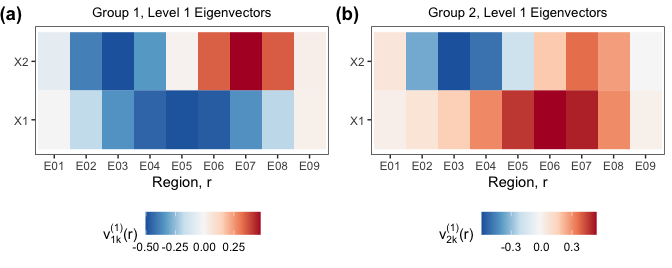
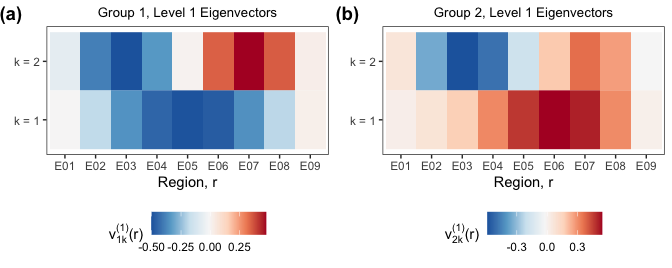
exporting bootstrap tests

diff --git a/README.md b/README.md
@@ -30,8 +30,9 @@ Begin by loading the `mhpca` package.
 library(mhpca) 
 ```
 
-Data can be simulated following the simulation low noise, dense set-up
-from the supplementary materials using the following function:
+Data can be simulated following the low noise, dense simulation set-up
+with 15 subjects per group from the supplementary materials using the
+following function:
 
 ``` r
 sim = MHPCA_simulation(
@@ -54,20 +55,13 @@ The data must be in the following form, with columns labeled
 
 ``` r
 head(sim$data)
-#>     Repetition   Group    Subject reg       func y_nonoise       noise
-#> 1 Repetition 1 Group 1 Subject 01 E01 0.00000000 1.4901930 -0.37896860
-#> 2 Repetition 1 Group 1 Subject 01 E01 0.02040816 1.3658750  0.07670852
-#> 3 Repetition 1 Group 1 Subject 01 E01 0.04081633 1.2479442 -0.50811750
-#> 4 Repetition 1 Group 1 Subject 01 E01 0.06122449 1.1362658  0.27482763
-#> 5 Repetition 1 Group 1 Subject 01 E01 0.08163265 1.0306834 -0.02199535
-#> 6 Repetition 1 Group 1 Subject 01 E01 0.10204082 0.9310203 -0.06845363
-#>           y
-#> 1 1.1112244
-#> 2 1.4425836
-#> 3 0.7398267
-#> 4 1.4110934
-#> 5 1.0086881
-#> 6 0.8625667
+#>     Repetition   Group    Subject reg       func         y
+#> 1 Repetition 1 Group 1 Subject 01 E01 0.00000000 1.1112244
+#> 2 Repetition 1 Group 1 Subject 01 E01 0.02040816 1.4425836
+#> 3 Repetition 1 Group 1 Subject 01 E01 0.04081633 0.7398267
+#> 4 Repetition 1 Group 1 Subject 01 E01 0.06122449 1.4110934
+#> 5 Repetition 1 Group 1 Subject 01 E01 0.08163265 1.0086881
+#> 6 Repetition 1 Group 1 Subject 01 E01 0.10204082 0.8625667
 ```
 
 Using the `MHPCA_decomp` function, you can estimate the model
@@ -84,20 +78,40 @@ MHPCA = MHPCA_decomp(
   quiet      = FALSE # display messages for timing 
 )
 #> 0. Data formatting: 0.016 sec elapsed
-#> 1. Estimation of Fixed Effects: 0.158 sec elapsed
+#> 1. Estimation of Fixed Effects: 0.152 sec elapsed
 #> 2. Estimation of Covariances
-#>     a. Raw Covariances: 0.209 sec elapsed
-#>     b,c. Estimation of Marginal Covariances and Smoothing: 0.684 sec elapsed
+#>     a. Raw Covariances: 0.182 sec elapsed
+#>     b,c. Estimation of Marginal Covariances and Smoothing: 0.759 sec elapsed
 #> 3. Estimation of Marginal Eigencomponents: 0.004 sec elapsed
 #> 4. Estimation of Variance Components
-#>     a. Fit big model: 4.229 sec elapsed
-#>     b. Choose number of components: 0.038 sec elapsed
-#>     c. Final Model: 5.612 sec elapsed
-#>     d. Prediction: 0.189 sec elapsed
-#> MHPCA Decomposition and Estimation: 11.141 sec elapsed
+#>     a. Fit big model: 4.089 sec elapsed
+#>     b. Choose number of components: 0.034 sec elapsed
+#>     c. Final Model: 5.236 sec elapsed
+#>     d. Prediction: 0.186 sec elapsed
+#> MHPCA Decomposition and Estimation: 10.659 sec elapsed
 ```
 
+The output of the `MHPCA_decomp` function
+
+| name  | description                                                                                                                                                                                                  |
+|-------|--------------------------------------------------------------------------------------------------------------------------------------------------------------------------------------------------------------|
+| mu    | overall mean function (![T x 1](https://latex.codecogs.com/png.latex?T%20x%201 "T x 1") vector)                                                                                                              |
+| eta   | group-region-reptition-specific shifts (![RTJD \\times 5](https://latex.codecogs.com/png.latex?RTJD%20%5Ctimes%205 "RTJD \times 5") data frame with columns for `Group`, `reg`, `Repetition`, `func`, `eta`) |
+| covar | list with the total, between- and within-subject covariances                                                                                                                                                 |
+| marg  | list with the between- and within-subject marginal covariances, eigenvectors, and eigenfunctions                                                                                                             |
+| model | list with the full and reduced models and their components (scores and variance components)                                                                                                                  |
+| data  | data used in the mixed effects model                                                                                                                                                                         |
+| FVE   | fraction of variance explained by each product eigen component, G’ and H’                                                                                                                                    |
+
+### Plotting
+
 All of the components can then be plotted and inspected.
+
+#### Overall Mean Function
+
+The estimated overall mean function
+![\\mu(t)](https://latex.codecogs.com/png.latex?%5Cmu%28t%29 "\mu(t)")
+can be accessed using `MHPCA$mu`
 
 ``` r
 ggplot(data.frame(func = unique(sim$data$func), mu = MHPCA$mu)) + 
@@ -110,6 +124,12 @@ ggplot(data.frame(func = unique(sim$data$func), mu = MHPCA$mu)) +
 ```
 
 <img src="man/figures/README-mean-function-1.png" width="60%" style="display: block; margin: auto;" />
+
+#### Group-Region-Repetition-Specific Shifts
+
+The estimated group-region-repetition-specific shifts
+![\\eta\_{dj}(r, t)](https://latex.codecogs.com/png.latex?%5Ceta_%7Bdj%7D%28r%2C%20t%29 "\eta_{dj}(r, t)")
+can be accessed using `MHPCA$eta`
 
 ``` r
 ggplot(MHPCA$eta) + 
@@ -129,13 +149,19 @@ ggplot(MHPCA$eta) +
 
 <img src="man/figures/README-eta-functions-1.png" width="60%" style="display: block; margin: auto;" />
 
+#### Level 1 Marginal Eigenvectors
+
+The level 1 marginal regional eigenvectors for Group 1 are stored in
+`MHPCA$marg$between$regional$'Group 1'$eigendecomp$vectors`.
+
 ``` r
 cowplot::plot_grid(
   data.frame(MHPCA$marg$between$regional$`Group 1`$eigendecomp$vectors[, 1:2]) %>%
+    setNames(c("k = 1", "k = 2")) %>% 
     mutate(reg = unique(sim$data$reg)) %>% 
-    pivot_longer(X1:X2, names_to = "v") %>% 
+    pivot_longer(`k = 1`:`k = 2`, names_to = "k") %>% 
     ggplot() + 
-    geom_tile(aes(x = reg, fill = value, y = v)) + 
+    geom_tile(aes(x = reg, fill = value, y = k)) + 
     scale_fill_distiller(palette = "RdBu") + 
     labs(
       x = "Region, r", 
@@ -144,10 +170,11 @@ cowplot::plot_grid(
       title = "Group 1, Level 1 Eigenvectors"
     ),
   data.frame(MHPCA$marg$between$regional$`Group 2`$eigendecomp$vectors[, 1:2]) %>%
+    setNames(c("k = 1", "k = 2")) %>% 
     mutate(reg = unique(sim$data$reg)) %>% 
-    pivot_longer(X1:X2, names_to = "v") %>% 
+    pivot_longer(`k = 1`:`k = 2`, names_to = "k") %>% 
     ggplot() + 
-    geom_tile(aes(x = reg, fill = value, y = v)) + 
+    geom_tile(aes(x = reg, fill = value, y = k)) + 
     scale_fill_distiller(palette = "RdBu") + 
     labs(
       x = "Region, r", 
@@ -165,13 +192,19 @@ cowplot::plot_grid(
 
 <img src="man/figures/README-level-1-eigenvectors-1.png" style="display: block; margin: auto;" />
 
+#### Level 2 Marignal Eigenvectors
+
+The level 2 marginal regional eigenvectors for Group 1 are stored in
+`MHPCA$marg$within$regional$'Group 1'$eigendecomp$vectors`.
+
 ``` r
 cowplot::plot_grid(
   data.frame(MHPCA$marg$within$regional$`Group 1`$eigendecomp$vectors[, 1:2]) %>% 
+    setNames(c("p = 1", "p = 2")) %>% 
     mutate(reg = unique(sim$data$reg)) %>% 
-    pivot_longer(X1:X2, names_to = "v") %>% 
+    pivot_longer(`p = 1`:`p = 2`, names_to = "p") %>% 
     ggplot() + 
-    geom_tile(aes(x = reg, fill = value, y = v)) + 
+    geom_tile(aes(x = reg, fill = value, y = p)) + 
     scale_fill_distiller(palette = "RdBu") + 
     labs(
       x = "Region, r", 
@@ -180,10 +213,11 @@ cowplot::plot_grid(
       title = "Group 1, Level 2 Eigenvectors"
     ), 
   data.frame(MHPCA$marg$within$regional$`Group 2`$eigendecomp$vectors[, 1:2]) %>% 
+    setNames(c("p = 1", "p = 2")) %>% 
     mutate(reg = unique(sim$data$reg)) %>% 
-    pivot_longer(X1:X2, names_to = "v") %>% 
+    pivot_longer(`p = 1`:`p = 2`, names_to = "p") %>% 
     ggplot() + 
-    geom_tile(aes(x = reg, fill = value, y = v)) + 
+    geom_tile(aes(x = reg, fill = value, y = p)) + 
     scale_fill_distiller(palette = "RdBu") +
     labs(
       x = "Region, r", 
@@ -201,30 +235,37 @@ cowplot::plot_grid(
 
 <img src="man/figures/README-level-2-eigenvectors-1.png" style="display: block; margin: auto;" />
 
+#### Level 1 Marginal Eigenfunctions
+
+The level 1 marginal functional eigenfunctions for Group 1 are stored in
+`MHPCA$marg$between$functional$'Group 1'$eigendecomp$vectors`.
+
 ``` r
 cowplot::plot_grid(
-  data.frame(MHPCA$marg$between$functional$`Group 1`$eigendecomp$vectors[, 1:2]) %>% 
+  data.frame(MHPCA$marg$between$functional$`Group 1`$eigendecomp$vectors[, 1:2]) %>%
+    setNames(c("l = 1", "l = 2")) %>% 
     mutate(func = unique(sim$data$func)) %>% 
-    pivot_longer(X1:X2, names_to = "phi") %>% 
+    pivot_longer(`l = 1`:`l = 2`, names_to = "phi") %>% 
     ggplot() + 
     geom_line(aes(x = func, y = value, color = phi)) + 
     scale_color_brewer(palette = "Dark2") + 
     labs(
       x = "Time, t", 
       y = TeX("$\\phi_{1l}^{(1)}(t)$"), 
-      color = TeX("$l$"), 
+      color = element_blank(), 
       title = "Group 1, Level 1 Eigenfunctions"
     ),
   data.frame(MHPCA$marg$between$functional$`Group 2`$eigendecomp$vectors[, 1:2]) %>% 
+    setNames(c("l = 1", "l = 2")) %>% 
     mutate(func = unique(sim$data$func)) %>% 
-    pivot_longer(X1:X2, names_to = "phi") %>% 
+    pivot_longer(`l = 1`:`l = 2`, names_to = "phi") %>% 
     ggplot() + 
     geom_line(aes(x = func, y = value, color = phi)) + 
     scale_color_brewer(palette = "Dark2") + 
     labs(
       x = "Time, t", 
       y = TeX("$\\phi_{2l}^{(1)}(t)$"), 
-      color = TeX("$l$"),
+      color = element_blank(),
       title = "Group 2, Level 1 Eigenfunctions"
     ), 
   ncol = 2, 
@@ -232,16 +273,22 @@ cowplot::plot_grid(
   hjust = 0.01,
   align = "hv", 
   axis = "btlr"
-)
+) 
 ```
 
 <img src="man/figures/README-level-1-eigenfunctions-1.png" style="display: block; margin: auto;" />
 
+#### Level 2 Marignal Eigenfunctions
+
+The level 2 marginal functional eigenfunctions for Group 1 are stored in
+`MHPCA$marg$within$functional$'Group 1'$eigendecomp$vectors`.
+
 ``` r
 cowplot::plot_grid(
   data.frame(MHPCA$marg$within$functional$`Group 1`$eigendecomp$vectors[, 1:2]) %>% 
+    setNames(c("m = 1", "m = 2")) %>% 
     mutate(func = unique(sim$data$func)) %>% 
-    pivot_longer(X1:X2, names_to = "phi") %>% 
+    pivot_longer(`m = 1`:`m = 2`, names_to = "phi") %>% 
     ggplot() + 
     geom_line(aes(x = func, y = value, color = phi)) + 
     scale_color_brewer(palette = "Dark2") + 
@@ -252,8 +299,9 @@ cowplot::plot_grid(
       title = "Group 1, Level 2 Eigenfunctions"
     ), 
   data.frame(MHPCA$marg$within$functional$`Group 2`$eigendecomp$vectors[, 1:2]) %>% 
+   setNames(c("m = 1", "m = 2")) %>% 
     mutate(func = unique(sim$data$func)) %>% 
-    pivot_longer(X1:X2, names_to = "phi") %>% 
+    pivot_longer(`m = 1`:`m = 2`, names_to = "phi") %>% 
     ggplot() + 
     geom_line(aes(x = func, y = value, color = phi)) +
     scale_color_brewer(palette = "Dark2") + 
@@ -273,9 +321,11 @@ cowplot::plot_grid(
 
 <img src="man/figures/README-level-2-eigenfunctions-1.png" style="display: block; margin: auto;" />
 
+### Summary Tables
+
 Using simulated data, we can calculate the errors of each model
-component and display in a table, similar to the ones provided in the
-paper:
+component and display the median, 10th percentile and 90th percentile in
+a table, similar to the tables provided in the paper.
 
 ``` r
 groups = unique(data$Group) 
@@ -291,7 +341,7 @@ parameter_order = c(
 ) 
 
 rbind(
-  
+  # mu 
   data.frame(
     func = unique(sim$data$func), 
     estimated = MHPCA$mu,
@@ -303,6 +353,7 @@ rbind(
     ) %>% 
     mutate(parameter = "mu", .before = 1), 
   
+  # eta 
   full_join(
     MHPCA$eta %>% 
       rename(estimated = eta), 
@@ -337,6 +388,7 @@ rbind(
     ) %>% 
     select(parameter, rse), 
   
+  # level 1 eigenvectors  
   map_dfr(groups, function(d) {
     v_k <- map_dfc(sim$v_k, identity) %>% setNames(c("X1", "X2"))
     v_k_hat <- data.frame(
@@ -379,6 +431,7 @@ rbind(
     ) %>% 
     select(parameter, rse), 
   
+  # level 2 eigenvectors
   map_dfr(groups, function(d) {
     v_p <- map_dfc(sim$v_p, identity) %>% setNames(c("X1", "X2"))
     v_p_hat <- data.frame(
@@ -419,9 +472,9 @@ rbind(
       parameter = v, 
       .before = 1
     ) %>% 
-    select(parameter, rse), 
+    select(parameter, rse),
   
-  
+  # level 1 eigenfunctions 
   map_dfr(groups, function(d) {
     phi_l <- map_dfc(sim$phi_l, identity) %>% setNames(c("X1", "X2"))
     
@@ -470,8 +523,9 @@ rbind(
       parameter = phi, 
       .before = 1
     ) %>% 
-    select(parameter, rse), 
+    select(parameter, rse),
   
+  # level 2 eigenfunctions 
   map_dfr(groups, function(d) {
     phi_m <- map_dfc(sim$phi_m, identity) %>% setNames(c("X1", "X2"))
     
@@ -522,6 +576,7 @@ rbind(
     ) %>% 
     select(parameter, rse),
   
+  # y prediction 
   map_dfr(groups, function(d) {
     MHPCA$data[[d]] %>%
       group_by(Repetition, Subject, reg) %>%
@@ -538,6 +593,7 @@ rbind(
     mutate(parameter = "y", .before = 1) %>% 
     select(parameter, rse), 
   
+  # eigenvalues
   rbind(
     map_dfr(groups, function(d) {
       data.frame(
@@ -578,6 +634,7 @@ rbind(
       rse = (estimated - truth) ^ 2 / truth ^ 2
     ), 
   
+  # sigma2
   map_dfr(groups, function(d) { 
     MHPCA$model$final[[d]]$sigma2
   }, .id = "Group") %>% 
@@ -586,6 +643,7 @@ rbind(
     summarize(rse = (estimated - truth) ^ 2 / truth ^ 2) %>% 
     mutate(parameter = "sigma2"), 
   
+  # rho 
   functional_ICC(MHPCA) %>% 
     mutate(
       truth = sum(sim$lambda_kl$lambda) / (sum(sim$lambda_kl$lambda) + sum(sim$lambda_pm$lambda))
@@ -593,7 +651,6 @@ rbind(
     rename(estimated = rho_dW) %>% 
     summarize(rse = (estimated - truth) ^ 2 / truth ^ 2) %>% 
     mutate(parameter = "rho")
-  
 ) %>% 
   group_by(parameter) %>% 
   summarise(
@@ -662,11 +719,21 @@ boot_out = MHPCA_bootstrap_within(
   nknots = 5, 
   quiet  = FALSE
 )
+#> 0. Setup Parametric Bootstrap Components: 0.064 sec elapsed
+#> 1. Bootstrap Procedure: 411.859 sec elapsed
+#> 2. Calculate p-values: 0.233 sec elapsed
+#> Bootstrap Procedure: 412.156 sec elapsed
 ```
 
-and for tests between groups, we test the null hypothesis
-![H\_0: \\eta\_{d\_1j\_1}(r, t) - \\eta\_{d\_1j\_2} = \\eta\_{d\_2j\_1} - \\eta\_{d\_2j\_2}](https://latex.codecogs.com/png.latex?H_0%3A%20%5Ceta_%7Bd_1j_1%7D%28r%2C%20t%29%20-%20%5Ceta_%7Bd_1j_2%7D%20%3D%20%5Ceta_%7Bd_2j_1%7D%20-%20%5Ceta_%7Bd_2j_2%7D "H_0: \eta_{d_1j_1}(r, t) - \eta_{d_1j_2} = \eta_{d_2j_1} - \eta_{d_2j_2}")
-with the following function
+The output of this function is a list with elements `pval` (the
+bootstrapped p-value for the test) and `boots` (the estimated
+![\\overline{\\eta}\_{dj}^b(r, t)](https://latex.codecogs.com/png.latex?%5Coverline%7B%5Ceta%7D_%7Bdj%7D%5Eb%28r%2C%20t%29 "\overline{\eta}_{dj}^b(r, t)")
+for each bootstrapped sample).
+
+For tests between groups, we test the null hypothesis
+![H\_0: \\eta\_{d\_1j\_1}(r, t) - \\eta\_{d\_1j\_2}(r, t) = \\eta\_{d\_2j\_1}(r, t) - \\eta\_{d\_2j\_2}(r, t)](https://latex.codecogs.com/png.latex?H_0%3A%20%5Ceta_%7Bd_1j_1%7D%28r%2C%20t%29%20-%20%5Ceta_%7Bd_1j_2%7D%28r%2C%20t%29%20%3D%20%5Ceta_%7Bd_2j_1%7D%28r%2C%20t%29%20-%20%5Ceta_%7Bd_2j_2%7D%28r%2C%20t%29 "H_0: \eta_{d_1j_1}(r, t) - \eta_{d_1j_2}(r, t) = \eta_{d_2j_1}(r, t) - \eta_{d_2j_2}(r, t)")
+with the following function, which performs the bootstrap sampling in
+parallel.
 
 ``` r
 boot_out = MHPCA_bootstrap_between(
@@ -678,3 +745,7 @@ boot_out = MHPCA_bootstrap_between(
   quiet  = FALSE
 )
 ```
+
+The output of this function is the similar to the output of
+`MHPCA_bootstrap_within`, however `boots` contains the estimated
+![\\overline{\\eta}^b\_{j-}(r, t)](https://latex.codecogs.com/png.latex?%5Coverline%7B%5Ceta%7D%5Eb_%7Bj-%7D%28r%2C%20t%29 "\overline{\eta}^b_{j-}(r, t)").
